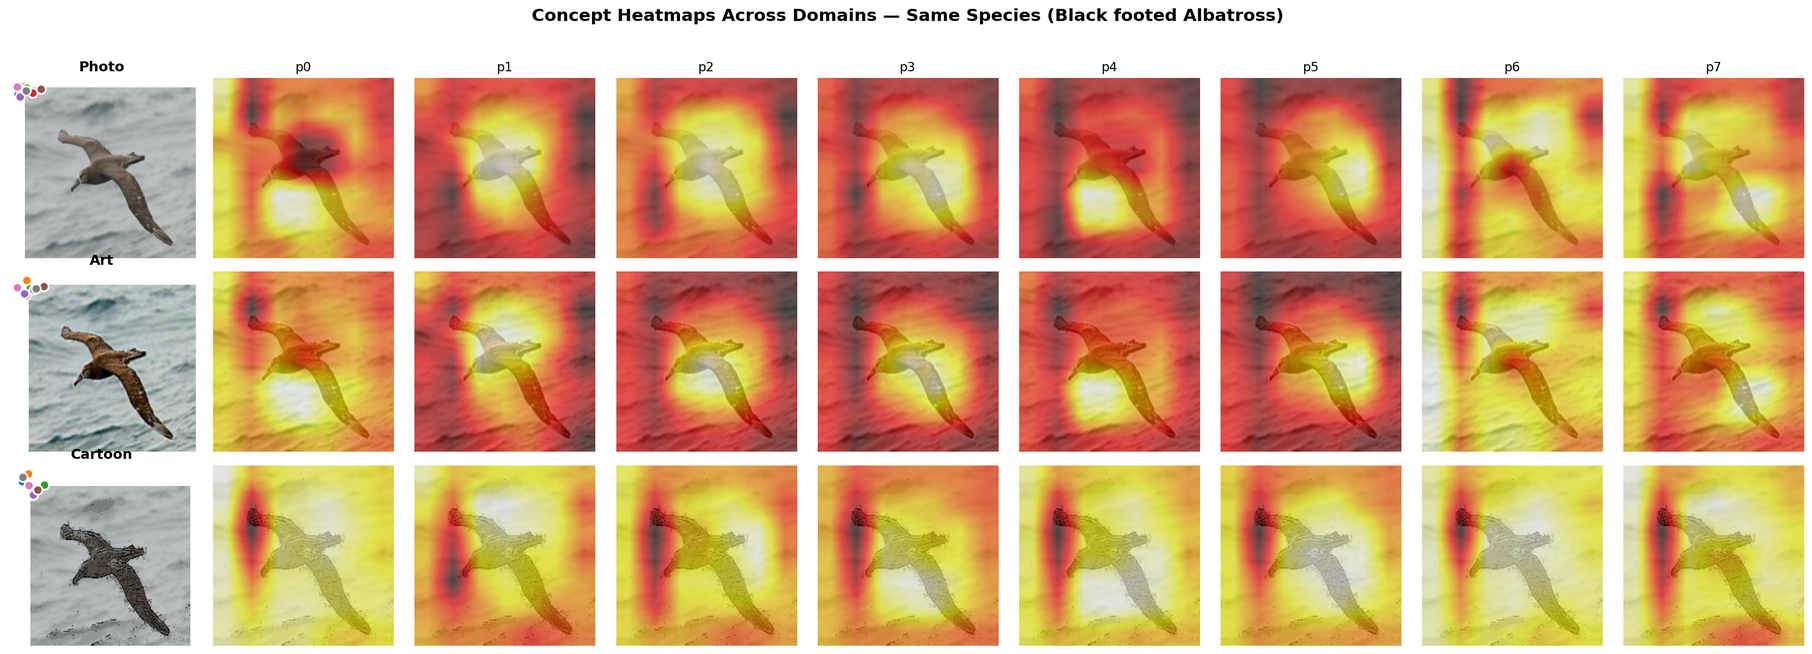
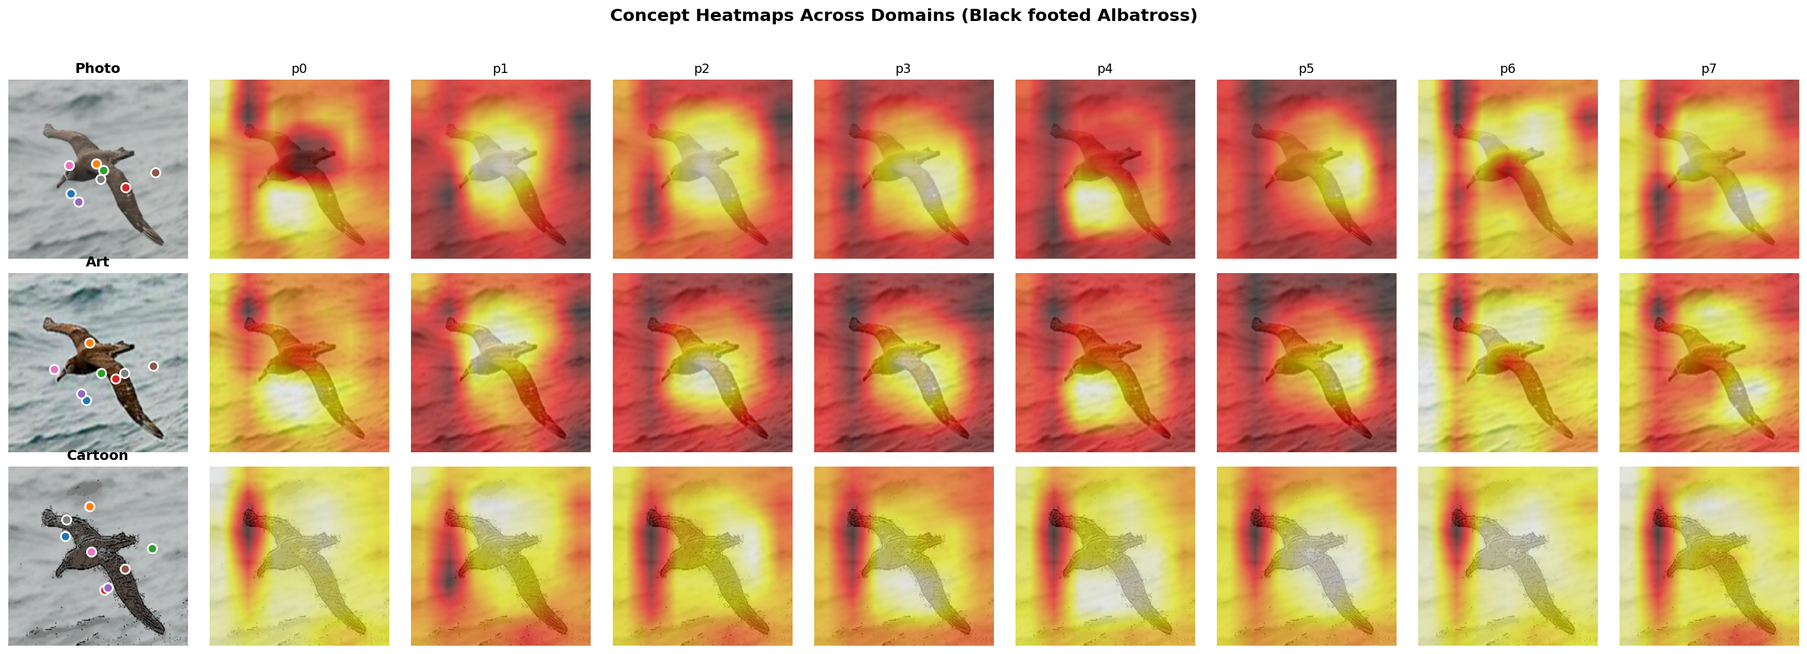
deploy: aea2a226ce41346f153b08af271b0ff20cc2809f

diff --git a/blog/2026/neurosymbolic-dg/index.html b/blog/2026/neurosymbolic-dg/index.html
@@ -1,4 +1,4 @@
-<!DOCTYPE html> <html lang="en"> <head> <meta charset="utf-8"> <meta name="viewport" content="width=device-width, initial-scale=1, shrink-to-fit=no"> <meta http-equiv="X-UA-Compatible" content="IE=edge"> <title>Grammars that generalize: trying to find domain-invariant bird recognition | Dat Nguyen</title> <meta name="author" content="Thanh-Dat Nguyen"/> <meta name="description" content="Combining a small DSL with a neural network for image classification gives domain invariance for free."/> <meta name="keywords" content="jekyll, jekyll-theme, academic-website, portfolio-website"/> <link href="https://cdn.jsdelivr.net/npm/bootstrap@4.6.1/dist/css/bootstrap.min.css" rel="stylesheet" integrity="sha256-DF7Zhf293AJxJNTmh5zhoYYIMs2oXitRfBjY+9L//AY=" crossorigin="anonymous"> <link rel="stylesheet" href="https://cdn.jsdelivr.net/npm/mdbootstrap@4.20.0/css/mdb.min.css" integrity="sha256-jpjYvU3G3N6nrrBwXJoVEYI/0zw8htfFnhT9ljN3JJw=" crossorigin="anonymous"/> <link rel="stylesheet" href="https://cdn.jsdelivr.net/npm/@fortawesome/fontawesome-free@5.15.4/css/all.min.css" integrity="sha256-mUZM63G8m73Mcidfrv5E+Y61y7a12O5mW4ezU3bxqW4=" crossorigin="anonymous"> <link rel="stylesheet" href="https://cdn.jsdelivr.net/npm/academicons@1.9.1/css/academicons.min.css" integrity="sha256-i1+4qU2G2860dGGIOJscdC30s9beBXjFfzjWLjBRsBg=" crossorigin="anonymous"> <link rel="stylesheet" type="text/css" href="https://fonts.googleapis.com/css?family=Roboto:300,400,500,700|Roboto+Slab:100,300,400,500,700|Material+Icons"> <link rel="stylesheet" href="https://cdn.jsdelivr.net/gh/jwarby/jekyll-pygments-themes@master/github.css" media="" id="highlight_theme_light"/> <link rel="shortcut icon" href="/assets/img/gear.svg"/> <link rel="stylesheet" href="/assets/css/main.css"> <link rel="canonical" href="https://datvo06.github.io/blog/2026/neurosymbolic-dg/"> <link rel="stylesheet" href="https://cdn.jsdelivr.net/gh/jwarby/jekyll-pygments-themes@master/native.css" media="none" id="highlight_theme_dark"/> <script src="/assets/js/theme.js"></script> <script src="/assets/js/dark_mode.js"></script> </head> <body class="fixed-top-nav "> <header> <nav id="navbar" class="navbar navbar-light navbar-expand-sm fixed-top"> <div class="container"> <a class="navbar-brand title font-weight-lighter" href="/">Dat Nguyen</a> <button class="navbar-toggler collapsed ml-auto" type="button" data-toggle="collapse" data-target="#navbarNav" aria-controls="navbarNav" aria-expanded="false" aria-label="Toggle navigation"> <span class="sr-only">Toggle navigation</span> <span class="icon-bar top-bar"></span> <span class="icon-bar middle-bar"></span> <span class="icon-bar bottom-bar"></span> </button> <div class="collapse navbar-collapse text-right" id="navbarNav"> <ul class="navbar-nav ml-auto flex-nowrap"> <li class="nav-item "> <a class="nav-link" href="/">About</a> </li> <li class="nav-item active"> <a class="nav-link" href="/blog/">Technical Blogs<span class="sr-only">(current)</span></a> </li> <li class="nav-item "> <a class="nav-link" href="/publications/">Publications</a> </li> <li class="nav-item "> <a class="nav-link" href="/repositories/">Repositories</a> </li> <li class="nav-item "> <a class="nav-link" href="/cv/">Resume</a> </li> <li class="toggle-container"> <button id="light-toggle" title="Change theme"> <i class="fas fa-moon"></i> <i class="fas fa-sun"></i> </button> </li> </ul> </div> </div> </nav> </header> <div class="container mt-5"> <div class="post"> <header class="post-header"> <h1 class="post-title">Grammars that generalize: trying to find domain-invariant bird recognition</h1> <p class="post-meta">March 21, 2026</p> <p class="post-tags"> <a href="/blog/2026"> <i class="fas fa-calendar fa-sm"></i> 2026 </a> </p> </header> <article class="post-content"> <p>Here’s a question <a href="https://github.com/Duy-Nguyen-Duc" target="_blank" rel="noopener noreferrer">Duy</a> and I were kicking around: what if you combined a small DSL with a neural network classifier and the classifier head itself <em>happened</em> to be domain-invariant by construction? Not as a replacement for adaptation methods like CDAN — but as a much stronger starting point for them.</p> <p>Turns out it works. We replaced a linear classification layer with a probabilistic context-free grammar over spatial layout programs and got +15pp on a hard fine-grained vision benchmark. The grammar doesn’t know about domains. It just scores spatial relations between detected parts — and those relations don’t change when you go from photos to paintings.</p> <p>Code: <a href="https://github.com/datvo06/NeuroSymbolicDG" target="_blank" rel="noopener noreferrer">datvo06/NeuroSymbolicDG</a>. Checkpoints: <a href="https://huggingface.co/datvo06/neurosymbolic-da-results" target="_blank" rel="noopener noreferrer">HuggingFace</a>.</p> <h2 id="the-grammar">The grammar</h2> <p>Let’s start with the grammar itself, since that’s the whole point.</p> <p>A standard image classifier ends with a linear layer: backbone features $\to$ class logits. We replace that with a PCFG over a small layout DSL. The DSL has two sorts of terminals:</p> <ul> <li> <strong>Existence</strong>: $\texttt{has}(j)$ — “primitive $j$ is present” (returns its confidence $\in [0,1]$)</li> <li> <strong>Relation</strong>: $\texttt{rel}(r, i, j)$ — “primitive $i$ is in spatial relation $r$ to primitive $j$” (returns a soft score)</li> </ul> <p>The spatial relations are scored by sigmoid/Gaussian kernels over detected primitive coordinates:</p> \[\begin{aligned} \texttt{above}(i, j) &amp;= \sigma\bigl(\lambda_1 (cy_j - cy_i - m_1)\bigr) \\ \texttt{left\_of}(i, j) &amp;= \sigma\bigl(\lambda_2 (cx_j - cx_i - m_2)\bigr) \\ \texttt{near}(i, j) &amp;= \exp\bigl(-\|c_i - c_j\|^2 / 2\rho^2\bigr) \\ \texttt{aligned\_h}(i, j) &amp;= \exp\bigl(-(cy_i - cy_j)^2 / 2\tau_1^2\bigr) \\ \texttt{aligned\_v}(i, j) &amp;= \exp\bigl(-(cx_i - cx_j)^2 / 2\tau_2^2\bigr) \\ \texttt{contains}(i, j) &amp;= \sigma\bigl(\lambda_3 \min(\text{margin}_{ij})\bigr) \end{aligned}\] <p>All parameters $(\lambda, m, \tau, \rho)$ are learnable — jointly optimized with the rest of the network. So the geometry of “above” and “near” adapts to the data; we don’t hand-code thresholds.</p> <p>Now, the <strong>grammar</strong>. Given $k=8$ primitive types and 6 relation types, the universal grammar enumerates all possible spatial constraints:</p> \[\begin{aligned} \texttt{Constraint} &amp;\to \texttt{has}(p_j) &amp;&amp; \text{for } j \in \{0, \ldots, 7\} &amp;&amp; \text{(8 productions)} \\ \texttt{Constraint} &amp;\to \texttt{rel}(r, p_i, p_j) &amp;&amp; \text{for } r \in \mathcal{R},\; i \neq j &amp;&amp; \text{(6 × 56 = 336 productions)} \\ \texttt{Layout}_y &amp;\to \texttt{choice}(\texttt{score}(w_1, c_1), \ldots, \texttt{score}(w_{344}, c_{344})) &amp;&amp; &amp;&amp; \text{(marginalization)} \end{aligned}\] <p>That’s 344 productions total. Each class $y$ has its own weight vector $\mathbf{w}_y \in \mathbb{R}^{344}$, normalized by <strong>sparsemax</strong> (<a href="https://arxiv.org/abs/1602.02068" target="_blank" rel="noopener noreferrer">Martins &amp; Astudillo, 2016</a>). Sparsemax is the key sparsity mechanism: unlike softmax which assigns nonzero weight to everything, sparsemax produces <em>exact zeros</em>. Each class commits to a small set of active productions — typically 4-17 out of 344, with a mean of 8.</p> <p>The class score is the weighted marginal over all productions:</p> \[W_y(x) = \sum_{p=1}^{344} \underbrace{[\text{sparsemax}(\mathbf{w}_y)]_p}_{\text{grammar weight}} \cdot \underbrace{\beta_p(x)}_{\text{spatial score}}\] <p>If you squint, this is a linear classifier — but over <em>spatial relation features</em> $\beta_p(x)$ instead of raw backbone features, with sparsemax forcing each class to pick a small structural explanation.</p> <h3 id="connection-to-neuro-symbolic-scene-understanding">Connection to neuro-symbolic scene understanding</h3> <p>This grammar is semantically similar to the visual reasoning programs used in work like Neural-Symbolic VQA (<a href="https://arxiv.org/abs/1810.02338" target="_blank" rel="noopener noreferrer">Yi et al., 2018</a>) and the CLEVR ecosystem (<a href="https://arxiv.org/abs/1612.06890" target="_blank" rel="noopener noreferrer">Johnson et al., 2017</a>). In those systems, a parser produces a symbolic program (e.g., <code class="language-plaintext highlighter-rouge">filter(red) → relate(left_of) → query(shape)</code>) that executes on a scene representation to answer questions. The programs are compositional, the scene representation is object-centric, and the spatial relations are symbolic.</p> <p>Our DSL has the same flavor — <code class="language-plaintext highlighter-rouge">rel("above", p3, p1)</code> is not far from <code class="language-plaintext highlighter-rouge">relate(above, obj3, obj1)</code> in a CLEVR-style program. But there’s a key difference in <em>how the semantics are given</em>:</p> <ul> <li> <strong>CLEVR-style</strong>: the semantics are <strong>learned</strong> — a neural module network or attention mechanism learns what “left_of” means from data. This is flexible but the learned semantics can overfit to the training distribution.</li> <li> <strong>Ours</strong>: the semantics are <strong>given differentiably</strong> — <code class="language-plaintext highlighter-rouge">above(i, j) = σ(λ(cy_j - cy_i - m))</code> is a fixed functional form with learnable parameters. The <em>shape</em> of the relation is specified (sigmoid on coordinate difference), but the <em>threshold and sharpness</em> adapt. This gives us a strong inductive bias: “above” really does mean “higher in the image,” it can’t drift to mean something else. And because this inductive bias is domain-agnostic — coordinate differences don’t depend on rendering style — the grammar is domain-invariant by construction.</li> </ul> <p>The tradeoff is expressiveness vs. invariance. Learned relation semantics can capture more complex patterns but may not transfer across domains. Fixed-form differentiable semantics transfer perfectly but can only express what the functional form allows. For spatial relations between detected parts, the sigmoid/Gaussian forms are expressive enough — and the domain invariance is worth it.</p> <h2 id="the-full-pipeline-on-a-real-image">The full pipeline on a real image</h2> <p>Here’s the complete pipeline running on a Black-footed Albatross photo — from detected primitives through concept heatmaps to the grammar derivation:</p> <p><img src="/assets/img/neurosymbolic_dg/full_pipeline_viz.png" alt="Full pipeline visualization"></p> <p>Left: the 8 detected primitives overlaid on the input image. Middle: per-primitive concept heatmaps showing what each primitive attends to (bright = high activation). Right: the grammar’s derivation for this class — 8 active productions out of 344, dominated by <code class="language-plaintext highlighter-rouge">contains</code> relations capturing part-whole nesting.</p> <h2 id="same-primitives-different-domains">Same primitives, different domains</h2> <p>The key claim is that the grammar’s spatial structure transfers across visual domains. Here’s the same species (Black-footed Albatross) across Photo, Art, and Cartoon renderings, with all 8 concept heatmaps:</p> <p><img src="/assets/img/neurosymbolic_dg/cross_domain_heatmaps.png" alt="Cross-domain heatmaps"></p> <p>The primitives detect similar spatial regions across domains — the heatmap patterns are consistent even though the pixel-level appearance changes dramatically. The grammar scores spatial relations between these primitives, and since the relations (“p0 contains p4”, “p1 above p2”) hold across all renderings, the grammar produces the same classification.</p> <h2 id="what-the-grammar-actually-learns">What the grammar actually learns</h2> <p>Here’s what the trained grammar looks like on real CUB-DG checkpoints. These are the <em>actual</em> sparsemax-normalized production weights extracted from our best model (PCFG+CDAN, trained on Photo+Cartoon+Paint, tested on Art).</p> <p>Each class uses only 4-17 active productions out of 344. The grammar learns a sparse structural recipe for each bird species:</p> <p><img src="/assets/img/neurosymbolic_dg/grammar_productions.png" alt="Grammar productions per class"></p> <p>A few things to notice:</p> <ul> <li> <strong>Different classes use different relations</strong>: some are dominated by <code class="language-plaintext highlighter-rouge">above</code> (vertical spatial structure), others by <code class="language-plaintext highlighter-rouge">contains</code> (part-whole nesting), others by mixtures.</li> <li> <strong>Sparsemax sparsity is real</strong>: most classes use 7-9 productions. The grammar doesn’t hedge across all 344 — it commits to a small structural explanation.</li> <li> <strong>Productions reference specific primitive pairs</strong>: <code class="language-plaintext highlighter-rouge">above(p1, p2)</code> means “primitive 1 is above primitive 2.” The primitives are anonymous (the network decides what they detect), but the grammar locks in <em>which spatial relations between which pairs</em> define each class.</li> </ul> <h3 id="same-grammar-every-domain">Same grammar, every domain</h3> <p>The grammar weights are per-class, not per-domain. So the structural recipe for “Class 169” is identical whether the bird is a Photo, an Art painting, a Cartoon, or a Paint rendering. This is domain invariance by construction:</p> <p><img src="/assets/img/neurosymbolic_dg/cross_domain_grammar.png" alt="Cross-domain grammar invariance"></p> <p>The color coding shows relation types: red = <code class="language-plaintext highlighter-rouge">above</code>, green = <code class="language-plaintext highlighter-rouge">near</code>, teal = <code class="language-plaintext highlighter-rouge">contains</code>. The structural recipe doesn’t change across domains — only the primitive detectors (backbone + bottleneck) adapt to the visual style. The grammar captures <em>what spatial structure defines each class</em>, and that structure is shared across all renderings.</p> <h2 id="one-program-three-semantics">One program, three semantics</h2> <p>The design principle is something that’ll look familiar if you’ve done any work with abstract interpretation: define the grammar once as an effectful program, then choose your semantics at the call site.</p> <p>The grammar is implemented using <a href="https://github.com/BasisResearch/effectful" target="_blank" rel="noopener noreferrer">effectful</a> algebraic effects. The five DSL operations — <code class="language-plaintext highlighter-rouge">has</code>, <code class="language-plaintext highlighter-rouge">rel</code>, <code class="language-plaintext highlighter-rouge">conj</code>, <code class="language-plaintext highlighter-rouge">choice</code>, <code class="language-plaintext highlighter-rouge">score</code> — are declared as algebraic effects via <code class="language-plaintext highlighter-rouge">@Operation.define</code>. The same grammar program runs under different handlers:</p> <div class="language-python highlighter-rouge"><div class="highlight"><pre class="highlight"><code><span class="k">with</span> <span class="nf">handler</span><span class="p">(</span><span class="n">eval_handler</span><span class="p">):</span>     <span class="n">score</span> <span class="o">=</span> <span class="nf">grammar</span><span class="p">(</span><span class="n">class_idx</span><span class="p">)</span>  <span class="c1"># → Tensor
+<!DOCTYPE html> <html lang="en"> <head> <meta charset="utf-8"> <meta name="viewport" content="width=device-width, initial-scale=1, shrink-to-fit=no"> <meta http-equiv="X-UA-Compatible" content="IE=edge"> <title>Grammars that generalize: trying to find domain-invariant bird recognition | Dat Nguyen</title> <meta name="author" content="Thanh-Dat Nguyen"/> <meta name="description" content="Combining a small DSL with a neural network for image classification gives domain invariance for free."/> <meta name="keywords" content="jekyll, jekyll-theme, academic-website, portfolio-website"/> <link href="https://cdn.jsdelivr.net/npm/bootstrap@4.6.1/dist/css/bootstrap.min.css" rel="stylesheet" integrity="sha256-DF7Zhf293AJxJNTmh5zhoYYIMs2oXitRfBjY+9L//AY=" crossorigin="anonymous"> <link rel="stylesheet" href="https://cdn.jsdelivr.net/npm/mdbootstrap@4.20.0/css/mdb.min.css" integrity="sha256-jpjYvU3G3N6nrrBwXJoVEYI/0zw8htfFnhT9ljN3JJw=" crossorigin="anonymous"/> <link rel="stylesheet" href="https://cdn.jsdelivr.net/npm/@fortawesome/fontawesome-free@5.15.4/css/all.min.css" integrity="sha256-mUZM63G8m73Mcidfrv5E+Y61y7a12O5mW4ezU3bxqW4=" crossorigin="anonymous"> <link rel="stylesheet" href="https://cdn.jsdelivr.net/npm/academicons@1.9.1/css/academicons.min.css" integrity="sha256-i1+4qU2G2860dGGIOJscdC30s9beBXjFfzjWLjBRsBg=" crossorigin="anonymous"> <link rel="stylesheet" type="text/css" href="https://fonts.googleapis.com/css?family=Roboto:300,400,500,700|Roboto+Slab:100,300,400,500,700|Material+Icons"> <link rel="stylesheet" href="https://cdn.jsdelivr.net/gh/jwarby/jekyll-pygments-themes@master/github.css" media="" id="highlight_theme_light"/> <link rel="shortcut icon" href="/assets/img/gear.svg"/> <link rel="stylesheet" href="/assets/css/main.css"> <link rel="canonical" href="https://datvo06.github.io/blog/2026/neurosymbolic-dg/"> <link rel="stylesheet" href="https://cdn.jsdelivr.net/gh/jwarby/jekyll-pygments-themes@master/native.css" media="none" id="highlight_theme_dark"/> <script src="/assets/js/theme.js"></script> <script src="/assets/js/dark_mode.js"></script> </head> <body class="fixed-top-nav "> <header> <nav id="navbar" class="navbar navbar-light navbar-expand-sm fixed-top"> <div class="container"> <a class="navbar-brand title font-weight-lighter" href="/">Dat Nguyen</a> <button class="navbar-toggler collapsed ml-auto" type="button" data-toggle="collapse" data-target="#navbarNav" aria-controls="navbarNav" aria-expanded="false" aria-label="Toggle navigation"> <span class="sr-only">Toggle navigation</span> <span class="icon-bar top-bar"></span> <span class="icon-bar middle-bar"></span> <span class="icon-bar bottom-bar"></span> </button> <div class="collapse navbar-collapse text-right" id="navbarNav"> <ul class="navbar-nav ml-auto flex-nowrap"> <li class="nav-item "> <a class="nav-link" href="/">About</a> </li> <li class="nav-item active"> <a class="nav-link" href="/blog/">Technical Blogs<span class="sr-only">(current)</span></a> </li> <li class="nav-item "> <a class="nav-link" href="/publications/">Publications</a> </li> <li class="nav-item "> <a class="nav-link" href="/repositories/">Repositories</a> </li> <li class="nav-item "> <a class="nav-link" href="/cv/">Resume</a> </li> <li class="toggle-container"> <button id="light-toggle" title="Change theme"> <i class="fas fa-moon"></i> <i class="fas fa-sun"></i> </button> </li> </ul> </div> </div> </nav> </header> <div class="container mt-5"> <div class="post"> <header class="post-header"> <h1 class="post-title">Grammars that generalize: trying to find domain-invariant bird recognition</h1> <p class="post-meta">March 21, 2026</p> <p class="post-tags"> <a href="/blog/2026"> <i class="fas fa-calendar fa-sm"></i> 2026 </a> </p> </header> <article class="post-content"> <p>Here’s a question <a href="https://github.com/Duy-Nguyen-Duc" target="_blank" rel="noopener noreferrer">Duy</a> and I were kicking around: what if you combined a small DSL with a neural network classifier and the classifier head itself <em>happened</em> to be domain-invariant by construction? Not as a replacement for adaptation methods like CDAN — but as a much stronger starting point for them.</p> <p>Turns out it works. We replaced a linear classification layer with a probabilistic context-free grammar over spatial layout programs and got +15pp on a hard fine-grained vision benchmark. The grammar doesn’t know about domains. It just scores spatial relations between detected parts — and those relations don’t change when you go from photos to paintings.</p> <p>Code: <a href="https://github.com/datvo06/NeuroSymbolicDG" target="_blank" rel="noopener noreferrer">datvo06/NeuroSymbolicDG</a>. Checkpoints: <a href="https://huggingface.co/datvo06/neurosymbolic-da-results" target="_blank" rel="noopener noreferrer">HuggingFace</a>.</p> <h2 id="the-grammar">The grammar</h2> <p>Let’s start with the grammar itself, since that’s the whole point.</p> <p>A standard image classifier ends with a linear layer: backbone features $\to$ class logits. We replace that with a PCFG over a small layout DSL. The DSL has two sorts of terminals:</p> <ul> <li> <strong>Existence</strong>: $\texttt{has}(j)$ — “primitive $j$ is present” (returns its confidence $\in [0,1]$)</li> <li> <strong>Relation</strong>: $\texttt{rel}(r, i, j)$ — “primitive $i$ is in spatial relation $r$ to primitive $j$” (returns a soft score)</li> </ul> <p>The spatial relations are scored by sigmoid/Gaussian kernels over detected primitive coordinates:</p> \[\begin{aligned} \texttt{above}(i, j) &amp;= \sigma\bigl(\lambda_1 (cy_j - cy_i - m_1)\bigr) \\ \texttt{left\_of}(i, j) &amp;= \sigma\bigl(\lambda_2 (cx_j - cx_i - m_2)\bigr) \\ \texttt{near}(i, j) &amp;= \exp\bigl(-\|c_i - c_j\|^2 / 2\rho^2\bigr) \\ \texttt{aligned\_h}(i, j) &amp;= \exp\bigl(-(cy_i - cy_j)^2 / 2\tau_1^2\bigr) \\ \texttt{aligned\_v}(i, j) &amp;= \exp\bigl(-(cx_i - cx_j)^2 / 2\tau_2^2\bigr) \\ \texttt{contains}(i, j) &amp;= \sigma\bigl(\lambda_3 \min(\text{margin}_{ij})\bigr) \end{aligned}\] <p>All parameters $(\lambda, m, \tau, \rho)$ are learnable — jointly optimized with the rest of the network. So the geometry of “above” and “near” adapts to the data; we don’t hand-code thresholds.</p> <p>Now, the <strong>grammar</strong>. Given $k=8$ primitive types and 6 relation types, the universal grammar enumerates all possible spatial constraints:</p> \[\begin{aligned} \texttt{Constraint} &amp;\to \texttt{has}(p_j) &amp;&amp; \text{for } j \in \{0, \ldots, 7\} &amp;&amp; \text{(8 productions)} \\ \texttt{Constraint} &amp;\to \texttt{rel}(r, p_i, p_j) &amp;&amp; \text{for } r \in \mathcal{R},\; i \neq j &amp;&amp; \text{(6 × 56 = 336 productions)} \\ \texttt{Layout}_y &amp;\to \texttt{choice}(\texttt{score}(w_1, c_1), \ldots, \texttt{score}(w_{344}, c_{344})) &amp;&amp; &amp;&amp; \text{(marginalization)} \end{aligned}\] <p>That’s 344 productions total. Each class $y$ has its own weight vector $\mathbf{w}_y \in \mathbb{R}^{344}$, normalized by <strong>sparsemax</strong> (<a href="https://arxiv.org/abs/1602.02068" target="_blank" rel="noopener noreferrer">Martins &amp; Astudillo, 2016</a>). Sparsemax is the key sparsity mechanism: unlike softmax which assigns nonzero weight to everything, sparsemax produces <em>exact zeros</em>. Each class commits to a small set of active productions — typically 4-17 out of 344, with a mean of 8.</p> <p>The class score is the weighted marginal over all productions:</p> \[W_y(x) = \sum_{p=1}^{344} \underbrace{[\text{sparsemax}(\mathbf{w}_y)]_p}_{\text{grammar weight}} \cdot \underbrace{\beta_p(x)}_{\text{spatial score}}\] <p>If you squint, this is a linear classifier — but over <em>spatial relation features</em> $\beta_p(x)$ instead of raw backbone features, with sparsemax forcing each class to pick a small structural explanation.</p> <h3 id="connection-to-neuro-symbolic-scene-understanding">Connection to neuro-symbolic scene understanding</h3> <p>This grammar is semantically similar to the visual reasoning programs used in work like Neural-Symbolic VQA (<a href="https://arxiv.org/abs/1810.02338" target="_blank" rel="noopener noreferrer">Yi et al., 2018</a>) and the CLEVR ecosystem (<a href="https://arxiv.org/abs/1612.06890" target="_blank" rel="noopener noreferrer">Johnson et al., 2017</a>). In those systems, a parser produces a symbolic program (e.g., <code class="language-plaintext highlighter-rouge">filter(red) → relate(left_of) → query(shape)</code>) that executes on a scene representation to answer questions. The programs are compositional, the scene representation is object-centric, and the spatial relations are symbolic.</p> <p>Our DSL has the same flavor — <code class="language-plaintext highlighter-rouge">rel("above", p3, p1)</code> is not far from <code class="language-plaintext highlighter-rouge">relate(above, obj3, obj1)</code> in a CLEVR-style program. But there’s a key difference in <em>how the semantics are given</em>:</p> <ul> <li> <strong>CLEVR-style</strong>: the semantics are <strong>learned</strong> — a neural module network or attention mechanism learns what “left_of” means from data. This is flexible but the learned semantics can overfit to the training distribution.</li> <li> <strong>Ours</strong>: the semantics are <strong>given differentiably</strong> — <code class="language-plaintext highlighter-rouge">above(i, j) = σ(λ(cy_j - cy_i - m))</code> is a fixed functional form with learnable parameters. The <em>shape</em> of the relation is specified (sigmoid on coordinate difference), but the <em>threshold and sharpness</em> adapt. This gives us a strong inductive bias: “above” really does mean “higher in the image,” it can’t drift to mean something else. And because this inductive bias is domain-agnostic — coordinate differences don’t depend on rendering style — the grammar is domain-invariant by construction.</li> </ul> <p>The tradeoff is expressiveness vs. invariance. Learned relation semantics can capture more complex patterns but may not transfer across domains. Fixed-form differentiable semantics transfer perfectly but can only express what the functional form allows. For spatial relations between detected parts, the sigmoid/Gaussian forms are expressive enough — and the domain invariance is worth it.</p> <h2 id="the-full-pipeline-on-a-real-image">The full pipeline on a real image</h2> <p>Here’s the complete pipeline running on a Black-footed Albatross photo — from detected primitives through concept heatmaps to the grammar derivation:</p> <p><img src="/assets/img/neurosymbolic_dg/full_pipeline_viz.png" alt="Full pipeline visualization"></p> <p>Left: the 8 detected primitives overlaid on the input image. Middle: per-primitive concept heatmaps showing what each primitive attends to (bright = high activation). Right: the grammar’s derivation for this class — 8 active productions out of 344, dominated by <code class="language-plaintext highlighter-rouge">contains</code> relations capturing part-whole nesting.</p> <p>And here’s what each grammar rule looks like spatially — the top 6 active productions visualized with their bounding boxes and relation arrows:</p> <p><img src="/assets/img/neurosymbolic_dg/grammar_rules_viz.png" alt="Grammar rules with bounding boxes"></p> <p>Each subplot shows one active production. The colored bounding boxes are the spatial extent of each primitive (estimated from heatmap variance), and the arrows show the spatial relation being scored. For this Albatross, the grammar is dominated by <code class="language-plaintext highlighter-rouge">contains</code> relations — different primitives detecting nested body regions (body contains wing-patch, body contains tail, etc.).</p> <h2 id="same-primitives-different-domains">Same primitives, different domains</h2> <p>The key claim is that the grammar’s spatial structure transfers across visual domains. Here’s the same species (Black-footed Albatross) across Photo, Art, and Cartoon renderings, with all 8 concept heatmaps:</p> <p><img src="/assets/img/neurosymbolic_dg/cross_domain_heatmaps.png" alt="Cross-domain heatmaps"></p> <p>The primitives detect similar spatial regions across domains — the heatmap patterns are consistent even though the pixel-level appearance changes dramatically. The grammar scores spatial relations between these primitives, and since the relations (“p0 contains p4”, “p1 above p2”) hold across all renderings, the grammar produces the same classification.</p> <h2 id="what-the-grammar-actually-learns">What the grammar actually learns</h2> <p>Here’s what the trained grammar looks like on real CUB-DG checkpoints. These are the <em>actual</em> sparsemax-normalized production weights extracted from our best model (PCFG+CDAN, trained on Photo+Cartoon+Paint, tested on Art).</p> <p>Each class uses only 4-17 active productions out of 344. The grammar learns a sparse structural recipe for each bird species:</p> <p><img src="/assets/img/neurosymbolic_dg/grammar_productions.png" alt="Grammar productions per class"></p> <p>A few things to notice:</p> <ul> <li> <strong>Different classes use different relations</strong>: some are dominated by <code class="language-plaintext highlighter-rouge">above</code> (vertical spatial structure), others by <code class="language-plaintext highlighter-rouge">contains</code> (part-whole nesting), others by mixtures.</li> <li> <strong>Sparsemax sparsity is real</strong>: most classes use 7-9 productions. The grammar doesn’t hedge across all 344 — it commits to a small structural explanation.</li> <li> <strong>Productions reference specific primitive pairs</strong>: <code class="language-plaintext highlighter-rouge">above(p1, p2)</code> means “primitive 1 is above primitive 2.” The primitives are anonymous (the network decides what they detect), but the grammar locks in <em>which spatial relations between which pairs</em> define each class.</li> </ul> <h3 id="same-grammar-every-domain">Same grammar, every domain</h3> <p>The grammar weights are per-class, not per-domain. So the structural recipe for “Class 169” is identical whether the bird is a Photo, an Art painting, a Cartoon, or a Paint rendering. This is domain invariance by construction:</p> <p><img src="/assets/img/neurosymbolic_dg/cross_domain_grammar.png" alt="Cross-domain grammar invariance"></p> <p>The color coding shows relation types: red = <code class="language-plaintext highlighter-rouge">above</code>, green = <code class="language-plaintext highlighter-rouge">near</code>, teal = <code class="language-plaintext highlighter-rouge">contains</code>. The structural recipe doesn’t change across domains — only the primitive detectors (backbone + bottleneck) adapt to the visual style. The grammar captures <em>what spatial structure defines each class</em>, and that structure is shared across all renderings.</p> <h2 id="one-program-three-semantics">One program, three semantics</h2> <p>The design principle is something that’ll look familiar if you’ve done any work with abstract interpretation: define the grammar once as an effectful program, then choose your semantics at the call site.</p> <p>The grammar is implemented using <a href="https://github.com/BasisResearch/effectful" target="_blank" rel="noopener noreferrer">effectful</a> algebraic effects. The five DSL operations — <code class="language-plaintext highlighter-rouge">has</code>, <code class="language-plaintext highlighter-rouge">rel</code>, <code class="language-plaintext highlighter-rouge">conj</code>, <code class="language-plaintext highlighter-rouge">choice</code>, <code class="language-plaintext highlighter-rouge">score</code> — are declared as algebraic effects via <code class="language-plaintext highlighter-rouge">@Operation.define</code>. The same grammar program runs under different handlers:</p> <div class="language-python highlighter-rouge"><div class="highlight"><pre class="highlight"><code><span class="k">with</span> <span class="nf">handler</span><span class="p">(</span><span class="n">eval_handler</span><span class="p">):</span>     <span class="n">score</span> <span class="o">=</span> <span class="nf">grammar</span><span class="p">(</span><span class="n">class_idx</span><span class="p">)</span>  <span class="c1"># → Tensor
 </span><span class="k">with</span> <span class="nf">handler</span><span class="p">(</span><span class="n">inside_handler</span><span class="p">):</span>   <span class="n">table</span> <span class="o">=</span> <span class="nf">grammar</span><span class="p">(</span><span class="n">class_idx</span><span class="p">)</span>  <span class="c1"># → InsideTable
 </span><span class="k">with</span> <span class="nf">handler</span><span class="p">(</span><span class="n">symbolic_handler</span><span class="p">):</span> <span class="n">tree</span>  <span class="o">=</span> <span class="nf">grammar</span><span class="p">(</span><span class="n">class_idx</span><span class="p">)</span>  <span class="c1"># → DerivNode
 </span></code></pre></div></div> <p>The eval handler interprets the DSL in the non-negative real semiring $(\mathbb{R}_{\geq 0}, +, \times, 0, 1)$ — <code class="language-plaintext highlighter-rouge">choice</code> is addition, <code class="language-plaintext highlighter-rouge">conj</code> is multiplication, <code class="language-plaintext highlighter-rouge">score</code> scales by the grammar weight. This gives you a scalar class score, fast.</p> <p>The inside handler interprets the same program in the <em>powerset semiring</em> — tracking which subsets of primitives each subprogram explains. This is the <a href="https://en.wikipedia.org/wiki/Inside%E2%80%93outside_algorithm" target="_blank" rel="noopener noreferrer">inside algorithm</a> adapted from strings to sets: $I(A, S) = \sum_{A \to B\;C} w \sum_{S = S_1 \uplus S_2} I(B, S_1) \cdot I(C, S_2)$. You get exact marginals over all derivations, useful for adaptation.</p> <p>The symbolic handler builds an explicit <code class="language-plaintext highlighter-rouge">DerivNode</code> tree — that’s how we extract the derivation visualizations above.</p> <p>Same program, three abstract domains. The algebraic effects pattern makes this clean: you never modify the grammar definition, just swap the handler.</p> <p>This is the same pattern from <a href="/blog/2026/bayesian-synthesis/">my earlier post on Bayesian synthesis</a> — there we had MCMC over program structures with a PCFG prior. Here, the programs are spatial layout grammars and the data is images, but the birth/death/swap moves over derivation trees are the same idea.</p> <p>(In practice, we bypass effectful for training via <code class="language-plaintext highlighter-rouge">forward_vectorized()</code> — pure tensor ops, ~26x faster. But the handler-based version is what makes the system compositional.)</p> <h2 id="the-concrete-setup">The concrete setup</h2> <p>Take CUB-DG (<a href="https://arxiv.org/abs/2209.14108" target="_blank" rel="noopener noreferrer">Min et al., ECCV 2022</a>): 200 bird species across 4 visual domains (Photo, Art, Cartoon, Paint). Train on 3 domains, test on the held-out one. Best published image-only method, CORAL (<a href="https://arxiv.org/abs/1607.01719" target="_blank" rel="noopener noreferrer">Sun &amp; Saenko, 2016</a>): 49.9% avg. Best with image+text, CITGM: 53.6%.</p> <p>We get <strong>67.0%</strong> with image only. Here’s the full pipeline:</p> <div class="language-plaintext highlighter-rouge"><div class="highlight"><pre class="highlight"><code>ResNet-50

diff --git a/blog/index.html b/blog/index.html
@@ -1,1 +1,1 @@
-<!DOCTYPE html> <html lang="en"> <head> <meta charset="utf-8"> <meta name="viewport" content="width=device-width, initial-scale=1, shrink-to-fit=no"> <meta http-equiv="X-UA-Compatible" content="IE=edge"> <title> Technical Blogs | Dat Nguyen</title> <meta name="author" content="Thanh-Dat Nguyen"/> <meta name="description" content="Thanh-Dat Nguyen personal github page, recording what happened. "/> <meta name="keywords" content="jekyll, jekyll-theme, academic-website, portfolio-website"/> <link href="https://cdn.jsdelivr.net/npm/bootstrap@4.6.1/dist/css/bootstrap.min.css" rel="stylesheet" integrity="sha256-DF7Zhf293AJxJNTmh5zhoYYIMs2oXitRfBjY+9L//AY=" crossorigin="anonymous"> <link rel="stylesheet" href="https://cdn.jsdelivr.net/npm/mdbootstrap@4.20.0/css/mdb.min.css" integrity="sha256-jpjYvU3G3N6nrrBwXJoVEYI/0zw8htfFnhT9ljN3JJw=" crossorigin="anonymous"/> <link rel="stylesheet" href="https://cdn.jsdelivr.net/npm/@fortawesome/fontawesome-free@5.15.4/css/all.min.css" integrity="sha256-mUZM63G8m73Mcidfrv5E+Y61y7a12O5mW4ezU3bxqW4=" crossorigin="anonymous"> <link rel="stylesheet" href="https://cdn.jsdelivr.net/npm/academicons@1.9.1/css/academicons.min.css" integrity="sha256-i1+4qU2G2860dGGIOJscdC30s9beBXjFfzjWLjBRsBg=" crossorigin="anonymous"> <link rel="stylesheet" type="text/css" href="https://fonts.googleapis.com/css?family=Roboto:300,400,500,700|Roboto+Slab:100,300,400,500,700|Material+Icons"> <link rel="stylesheet" href="https://cdn.jsdelivr.net/gh/jwarby/jekyll-pygments-themes@master/github.css" media="" id="highlight_theme_light"/> <link rel="shortcut icon" href="/assets/img/gear.svg"/> <link rel="stylesheet" href="/assets/css/main.css"> <link rel="canonical" href="https://datvo06.github.io/blog/"> <link rel="stylesheet" href="https://cdn.jsdelivr.net/gh/jwarby/jekyll-pygments-themes@master/native.css" media="none" id="highlight_theme_dark"/> <script src="/assets/js/theme.js"></script> <script src="/assets/js/dark_mode.js"></script> </head> <body class="fixed-top-nav "> <header> <nav id="navbar" class="navbar navbar-light navbar-expand-sm fixed-top"> <div class="container"> <a class="navbar-brand title font-weight-lighter" href="/">Dat Nguyen</a> <button class="navbar-toggler collapsed ml-auto" type="button" data-toggle="collapse" data-target="#navbarNav" aria-controls="navbarNav" aria-expanded="false" aria-label="Toggle navigation"> <span class="sr-only">Toggle navigation</span> <span class="icon-bar top-bar"></span> <span class="icon-bar middle-bar"></span> <span class="icon-bar bottom-bar"></span> </button> <div class="collapse navbar-collapse text-right" id="navbarNav"> <ul class="navbar-nav ml-auto flex-nowrap"> <li class="nav-item "> <a class="nav-link" href="/">About</a> </li> <li class="nav-item active"> <a class="nav-link" href="/blog/">Technical Blogs<span class="sr-only">(current)</span></a> </li> <li class="nav-item "> <a class="nav-link" href="/publications/">Publications</a> </li> <li class="nav-item "> <a class="nav-link" href="/repositories/">Repositories</a> </li> <li class="nav-item "> <a class="nav-link" href="/cv/">Resume</a> </li> <li class="toggle-container"> <button id="light-toggle" title="Change theme"> <i class="fas fa-moon"></i> <i class="fas fa-sun"></i> </button> </li> </ul> </div> </div> </nav> </header> <div class="container mt-5"> <div class="post"> <div class="header-bar"> <h1>technical writings</h1> <h2>Writings that I finds useful but not published</h2> </div> <ul class="post-list"> <li> <h3> <a class="post-title" href="/blog/2026/neurosymbolic-dg/">Grammars that generalize: trying to find domain-invariant bird recognition</a> </h3> <p>Combining a small DSL with a neural network for image classification gives domain invariance for free.</p> <p class="post-meta"> 12 min read &nbsp; &middot; &nbsp; March 21, 2026 </p> </li> <li> <a class="post-list-image-link" href="/blog/2026/bayesian-synthesis/"> <img class="post-list-image" src="https://raw.githubusercontent.com/datvo06/BayesianSynthesis/main/assets/log_run_viz/round_03_mutation.gif" alt="Bayesian synthesis of probabilistic programs for automatic data modeling"> </a> <h3> <a class="post-title" href="/blog/2026/bayesian-synthesis/">Bayesian synthesis of probabilistic programs for automatic data modeling</a> </h3> <p>Building a chain of mutated programs for synthsizing probabilistic programs</p> <p class="post-meta"> 13 min read &nbsp; &middot; &nbsp; January 23, 2026 </p> </li> </ul> </div> </div> <footer class="fixed-bottom"> <div class="container mt-0"> &copy; Copyright 2026 Thanh-Dat Nguyen. </div> </footer> <script src="https://cdn.jsdelivr.net/npm/jquery@3.6.0/dist/jquery.min.js" integrity="sha256-/xUj+3OJU5yExlq6GSYGSHk7tPXikynS7ogEvDej/m4=" crossorigin="anonymous"></script> <script src="https://cdn.jsdelivr.net/npm/bootstrap@4.6.1/dist/js/bootstrap.bundle.min.js" integrity="sha256-fgLAgv7fyCGopR/gBNq2iW3ZKIdqIcyshnUULC4vex8=" crossorigin="anonymous"></script> <script src="https://cdn.jsdelivr.net/npm/mdbootstrap@4.20.0/js/mdb.min.js" integrity="sha256-NdbiivsvWt7VYCt6hYNT3h/th9vSTL4EDWeGs5SN3DA=" crossorigin="anonymous"></script> <script defer src="https://cdn.jsdelivr.net/npm/masonry-layout@4.2.2/dist/masonry.pkgd.min.js" integrity="sha256-Nn1q/fx0H7SNLZMQ5Hw5JLaTRZp0yILA/FRexe19VdI=" crossorigin="anonymous"></script> <script defer src="https://cdn.jsdelivr.net/npm/imagesloaded@4/imagesloaded.pkgd.min.js"></script> <script defer src="/assets/js/masonry.js" type="text/javascript"></script> <script defer src="https://cdn.jsdelivr.net/npm/medium-zoom@1.0.6/dist/medium-zoom.min.js" integrity="sha256-EdPgYcPk/IIrw7FYeuJQexva49pVRZNmt3LculEr7zM=" crossorigin="anonymous"></script> <script defer src="/assets/js/zoom.js"></script> <script defer src="/assets/js/common.js"></script> <script type="text/javascript">window.MathJax={tex:{tags:"ams",inlineMath:[["$","$"],["\\(","\\)"]],macros:{llbracket:"\\lbrack\\!\\lbrack",rrbracket:"\\rbrack\\!\\rbrack"}}};</script> <script defer type="text/javascript" id="MathJax-script" src="https://cdn.jsdelivr.net/npm/mathjax@3.2.0/es5/tex-mml-chtml.js"></script> <script defer src="https://polyfill.io/v3/polyfill.min.js?features=es6"></script> </body> </html>
+<!DOCTYPE html> <html lang="en"> <head> <meta charset="utf-8"> <meta name="viewport" content="width=device-width, initial-scale=1, shrink-to-fit=no"> <meta http-equiv="X-UA-Compatible" content="IE=edge"> <title> Technical Blogs | Dat Nguyen</title> <meta name="author" content="Thanh-Dat Nguyen"/> <meta name="description" content="Thanh-Dat Nguyen personal github page, recording what happened. "/> <meta name="keywords" content="jekyll, jekyll-theme, academic-website, portfolio-website"/> <link href="https://cdn.jsdelivr.net/npm/bootstrap@4.6.1/dist/css/bootstrap.min.css" rel="stylesheet" integrity="sha256-DF7Zhf293AJxJNTmh5zhoYYIMs2oXitRfBjY+9L//AY=" crossorigin="anonymous"> <link rel="stylesheet" href="https://cdn.jsdelivr.net/npm/mdbootstrap@4.20.0/css/mdb.min.css" integrity="sha256-jpjYvU3G3N6nrrBwXJoVEYI/0zw8htfFnhT9ljN3JJw=" crossorigin="anonymous"/> <link rel="stylesheet" href="https://cdn.jsdelivr.net/npm/@fortawesome/fontawesome-free@5.15.4/css/all.min.css" integrity="sha256-mUZM63G8m73Mcidfrv5E+Y61y7a12O5mW4ezU3bxqW4=" crossorigin="anonymous"> <link rel="stylesheet" href="https://cdn.jsdelivr.net/npm/academicons@1.9.1/css/academicons.min.css" integrity="sha256-i1+4qU2G2860dGGIOJscdC30s9beBXjFfzjWLjBRsBg=" crossorigin="anonymous"> <link rel="stylesheet" type="text/css" href="https://fonts.googleapis.com/css?family=Roboto:300,400,500,700|Roboto+Slab:100,300,400,500,700|Material+Icons"> <link rel="stylesheet" href="https://cdn.jsdelivr.net/gh/jwarby/jekyll-pygments-themes@master/github.css" media="" id="highlight_theme_light"/> <link rel="shortcut icon" href="/assets/img/gear.svg"/> <link rel="stylesheet" href="/assets/css/main.css"> <link rel="canonical" href="https://datvo06.github.io/blog/"> <link rel="stylesheet" href="https://cdn.jsdelivr.net/gh/jwarby/jekyll-pygments-themes@master/native.css" media="none" id="highlight_theme_dark"/> <script src="/assets/js/theme.js"></script> <script src="/assets/js/dark_mode.js"></script> </head> <body class="fixed-top-nav "> <header> <nav id="navbar" class="navbar navbar-light navbar-expand-sm fixed-top"> <div class="container"> <a class="navbar-brand title font-weight-lighter" href="/">Dat Nguyen</a> <button class="navbar-toggler collapsed ml-auto" type="button" data-toggle="collapse" data-target="#navbarNav" aria-controls="navbarNav" aria-expanded="false" aria-label="Toggle navigation"> <span class="sr-only">Toggle navigation</span> <span class="icon-bar top-bar"></span> <span class="icon-bar middle-bar"></span> <span class="icon-bar bottom-bar"></span> </button> <div class="collapse navbar-collapse text-right" id="navbarNav"> <ul class="navbar-nav ml-auto flex-nowrap"> <li class="nav-item "> <a class="nav-link" href="/">About</a> </li> <li class="nav-item active"> <a class="nav-link" href="/blog/">Technical Blogs<span class="sr-only">(current)</span></a> </li> <li class="nav-item "> <a class="nav-link" href="/publications/">Publications</a> </li> <li class="nav-item "> <a class="nav-link" href="/repositories/">Repositories</a> </li> <li class="nav-item "> <a class="nav-link" href="/cv/">Resume</a> </li> <li class="toggle-container"> <button id="light-toggle" title="Change theme"> <i class="fas fa-moon"></i> <i class="fas fa-sun"></i> </button> </li> </ul> </div> </div> </nav> </header> <div class="container mt-5"> <div class="post"> <div class="header-bar"> <h1>technical writings</h1> <h2>Writings that I finds useful but not published</h2> </div> <ul class="post-list"> <li> <h3> <a class="post-title" href="/blog/2026/neurosymbolic-dg/">Grammars that generalize: trying to find domain-invariant bird recognition</a> </h3> <p>Combining a small DSL with a neural network for image classification gives domain invariance for free.</p> <p class="post-meta"> 13 min read &nbsp; &middot; &nbsp; March 21, 2026 </p> </li> <li> <a class="post-list-image-link" href="/blog/2026/bayesian-synthesis/"> <img class="post-list-image" src="https://raw.githubusercontent.com/datvo06/BayesianSynthesis/main/assets/log_run_viz/round_03_mutation.gif" alt="Bayesian synthesis of probabilistic programs for automatic data modeling"> </a> <h3> <a class="post-title" href="/blog/2026/bayesian-synthesis/">Bayesian synthesis of probabilistic programs for automatic data modeling</a> </h3> <p>Building a chain of mutated programs for synthsizing probabilistic programs</p> <p class="post-meta"> 13 min read &nbsp; &middot; &nbsp; January 23, 2026 </p> </li> </ul> </div> </div> <footer class="fixed-bottom"> <div class="container mt-0"> &copy; Copyright 2026 Thanh-Dat Nguyen. </div> </footer> <script src="https://cdn.jsdelivr.net/npm/jquery@3.6.0/dist/jquery.min.js" integrity="sha256-/xUj+3OJU5yExlq6GSYGSHk7tPXikynS7ogEvDej/m4=" crossorigin="anonymous"></script> <script src="https://cdn.jsdelivr.net/npm/bootstrap@4.6.1/dist/js/bootstrap.bundle.min.js" integrity="sha256-fgLAgv7fyCGopR/gBNq2iW3ZKIdqIcyshnUULC4vex8=" crossorigin="anonymous"></script> <script src="https://cdn.jsdelivr.net/npm/mdbootstrap@4.20.0/js/mdb.min.js" integrity="sha256-NdbiivsvWt7VYCt6hYNT3h/th9vSTL4EDWeGs5SN3DA=" crossorigin="anonymous"></script> <script defer src="https://cdn.jsdelivr.net/npm/masonry-layout@4.2.2/dist/masonry.pkgd.min.js" integrity="sha256-Nn1q/fx0H7SNLZMQ5Hw5JLaTRZp0yILA/FRexe19VdI=" crossorigin="anonymous"></script> <script defer src="https://cdn.jsdelivr.net/npm/imagesloaded@4/imagesloaded.pkgd.min.js"></script> <script defer src="/assets/js/masonry.js" type="text/javascript"></script> <script defer src="https://cdn.jsdelivr.net/npm/medium-zoom@1.0.6/dist/medium-zoom.min.js" integrity="sha256-EdPgYcPk/IIrw7FYeuJQexva49pVRZNmt3LculEr7zM=" crossorigin="anonymous"></script> <script defer src="/assets/js/zoom.js"></script> <script defer src="/assets/js/common.js"></script> <script type="text/javascript">window.MathJax={tex:{tags:"ams",inlineMath:[["$","$"],["\\(","\\)"]],macros:{llbracket:"\\lbrack\\!\\lbrack",rrbracket:"\\rbrack\\!\\rbrack"}}};</script> <script defer type="text/javascript" id="MathJax-script" src="https://cdn.jsdelivr.net/npm/mathjax@3.2.0/es5/tex-mml-chtml.js"></script> <script defer src="https://polyfill.io/v3/polyfill.min.js?features=es6"></script> </body> </html>
